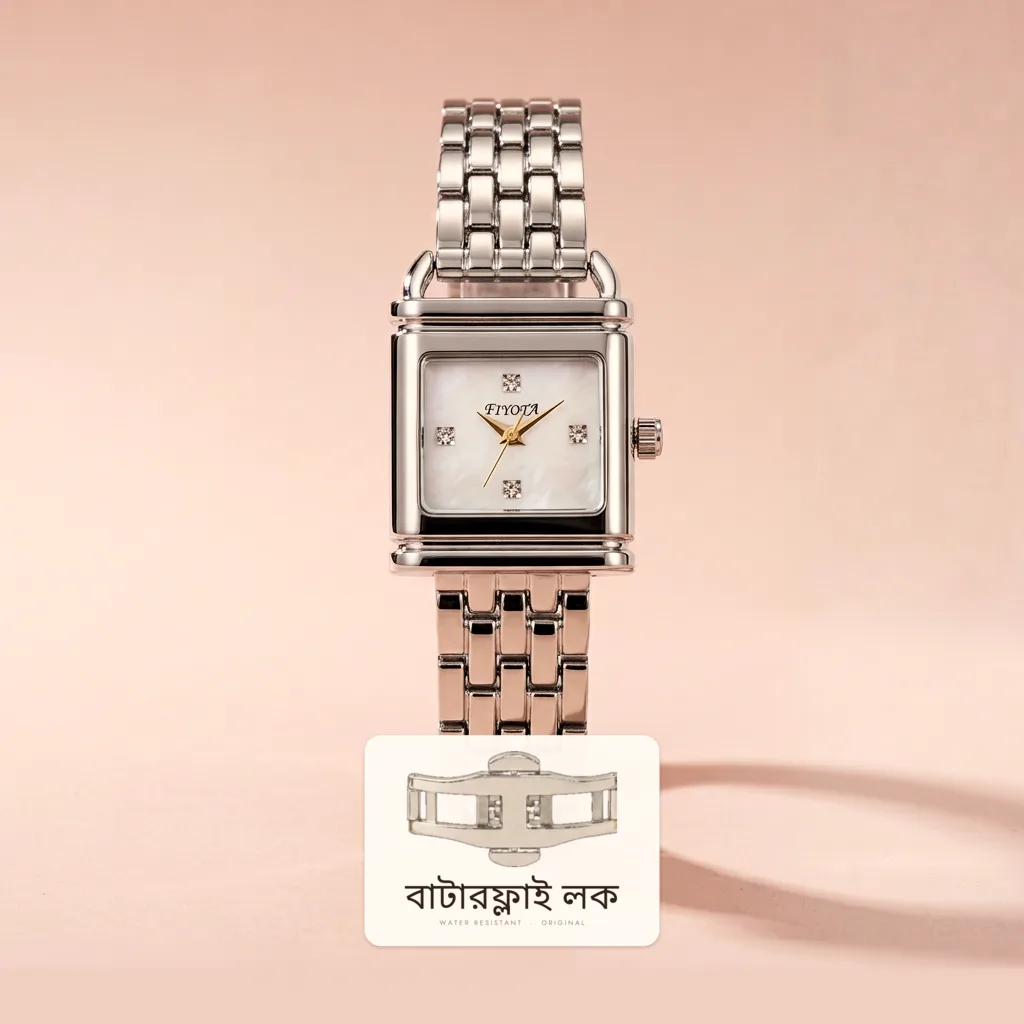
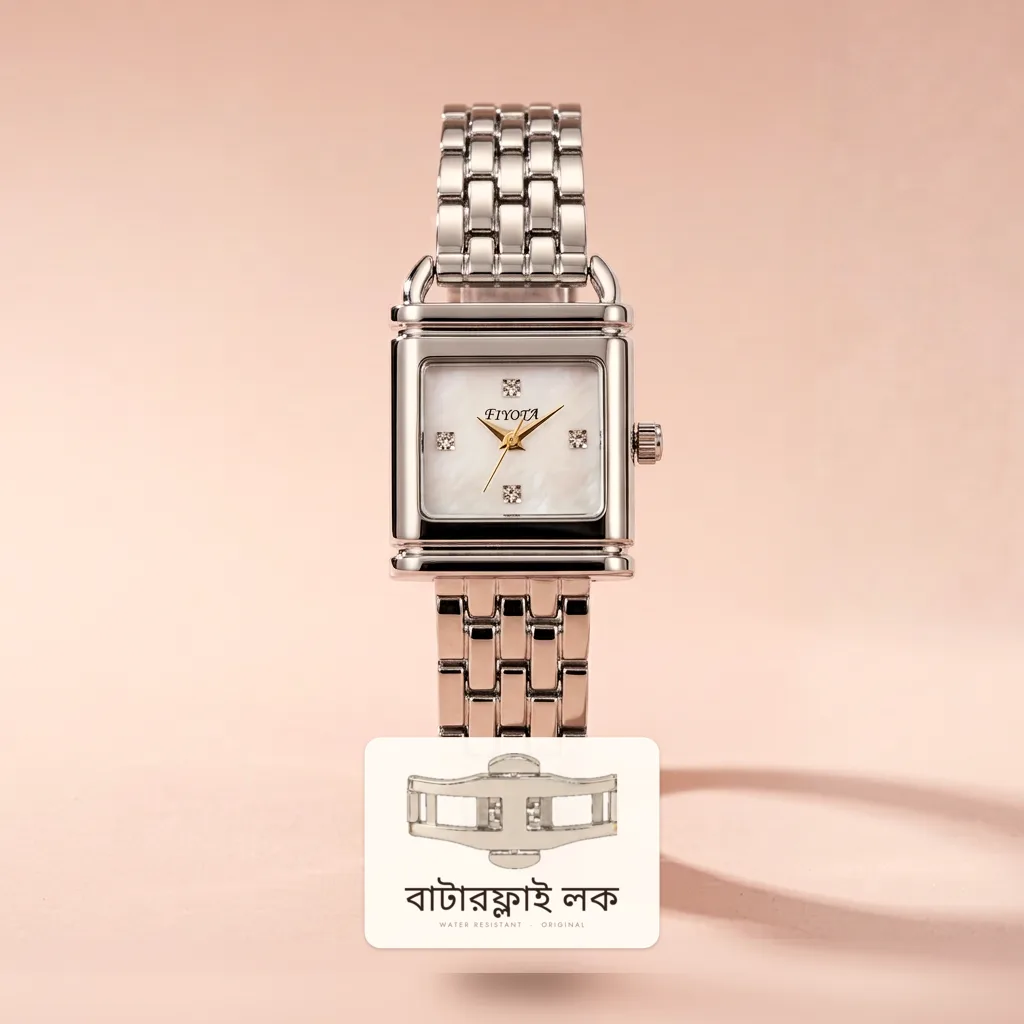
Gold FIYOTA square set: fixed room seam (append not composite), re-export mains, copy + download links

diff --git a/design/watch_shoot.py b/design/watch_shoot.py
@@ -357,40 +357,42 @@ def overlay_image(src: str, out: str, badge: str, width_ratio: float = 0.46,
 
 
 def make_room(src: str, out: str, shift: float = 0.09, feather: int = 40) -> str:
-    """Slide the subject up without changing the frame: crop `shift` off the top and splice the
-    same height back at the bottom using the photo's own edge colour, then feather the seam.
-
-    Gives the badge clean negative space on an otherwise full-frame hero shot.
+    """Slide the subject up without changing the frame: crop `shift` off the top and append a
+    blurred continuation of the backdrop underneath, so the badge gets clean space without a
+    flat colour band or a hard seam.
     """
     W, H = (int(x) for x in subprocess.run(
         ["convert", src, "-format", "%w %h", "info:"], capture_output=True, text=True
         ).stdout.split())
     top = max(1, int(H * shift))
     tmp = tempfile.mkdtemp(prefix="room-")
+
     cropped = os.path.join(tmp, "crop.png")
     run(["convert", src, "-crop", f"{W}x{H - top}+0+{top}", "+repage", cropped])
 
-    edge = subprocess.run(["convert", cropped, "-gravity", "south", "-crop", f"{W}x2+0+0",
-                           "+repage", "-resize", "1x1!", "-format", "%[pixel:p{0,0}]", "info:"],
-                          capture_output=True, text=True).stdout.strip()
+    # a heavily blurred slice of the bottom edge, stretched to the new height
+    ext = os.path.join(tmp, "ext.png")
+    band_src = max(top * 3, 48)
+    run(["convert", cropped, "-gravity", "south", "-crop", f"{W}x{band_src}+0+0", "+repage",
+         "-resize", f"{W}x{top}!", "-blur", "0x18", ext])
 
     spliced = os.path.join(tmp, "spliced.png")
-    run(["convert", cropped, "-background", edge, "-gravity", "south",
-         "-splice", f"0x{top}", spliced])
+    run(["convert", cropped, ext, "-background", "none", "-gravity", "north", "-append",
+         spliced])
 
-    # feather a narrow band around the seam so no straight line shows
-    band_h = min(feather * 2, top)
+    # feather across the seam so the join is invisible
+    band_h = min(int(feather * 3), top * 2)
+    y = max(0, H - top - band_h // 3)
     band = os.path.join(tmp, "band.png")
-    run(["convert", spliced, "-crop", f"{W}x{band_h}+0+{H - top - band_h // 2}", "+repage",
-         "-blur", "0x6", band])
+    run(["convert", spliced, "-crop", f"{W}x{band_h}+0+{y}", "+repage", "-blur", "0x14", band])
     masked = os.path.join(tmp, "band-masked.png")
-    run(["convert", band, "-alpha", "set",
-         "-channel", "A", "-evaluate", "multiply", "0.55", "+channel", masked])
-    Path(out).parent.mkdir(parents=True, exist_ok=True)
-    run(["convert", spliced, "(", masked, ")", "-geometry",
-         f"+0+{H - top - band_h // 2}", "-compose", "over", "-composite", "-strip", out])
-    return out
+    run(["convert", band, "-alpha", "set", "-channel", "A",
+         "-evaluate", "multiply", "0.70", "+channel", masked])
 
+    Path(out).parent.mkdir(parents=True, exist_ok=True)
+    run(["convert", spliced, "(", masked, ")", "-geometry", f"+0+{y}",
+         "-compose", "over", "-composite", "-strip", out])
+    return out
 
 
 GRADES = {

diff --git a/design/deliveries/fiyota-gold-square/copy.md b/design/deliveries/fiyota-gold-square/copy.md
@@ -1,0 +1,86 @@
+# FIYOTA Crystal Square — GOLD (মেয়েদের ঘড়ি) · প্রোডাক্ট কপি
+
+> ছবিতে ডায়ালে ব্র্যান্ড **FIYOTA** — নাম হিসেবে সেটাই রাখা হয়েছে।
+> ফিচার শুধু ভাইয়ার দেওয়া তথ্য থেকে: বাটারফ্লাই লক, ওয়াটার রেজিস্ট্যান্স, চেন কালার
+> গ্যারান্টি, ৭ দিন রিপ্লেসমেন্ট, ৬ মাস ওয়ারেন্টি। `[ ]` ঘরগুলো কনফার্ম করে ভরুন।
+
+---
+
+## ১. নাম (৩টি অপশন)
+
+1. **FIYOTA Crystal Square — Gold**
+2. **FIYOTA Golden Square**
+3. **FIYOTA Classic Gold (Women's)**
+
+## ২. এক লাইনের হুক
+
+> সোনালি চারকোনা কেস, চ্যাম্পেইন ডায়ালে চারটি ক্রিস্টাল — হাতে দিলেই দাওয়াতের মেজাজ।
+
+## ৩. শর্ট ডেসক্রিপশন
+
+গোল্ড-টোন রেক্ট্যাঙ্গুলার কেস, ভেতরে চ্যাম্পেইন-গোল্ড সানরে ডায়াল — ১২, ৩, ৬ আর ৯টার
+জায়গায় চারটি স্কয়ার ক্রিস্টাল মার্কার। সোনালি জুবিলি ব্রেসলেট বাটারফ্লাই লকে বন্ধ হয়,
+তাই কব্জিতে বসে পরিষ্কার থাকে। শাড়ি, কুর্তা, ফরমাল — সবের সাথেই মানায়।
+
+## ৪. ডিটেইল ডেসক্রিপশন
+
+**যা দেখছেন**
+
+কেসটা ছোট, কিন্তু ভাবটা রাজকীয়। চারকোনা ফ্রেমের চারপাশে ধাপে ধাপে পলিশ করা গোল্ড বেজেল —
+আলো পড়লে কেসের এজে সোনালি একটা সরু লাইন আঁকে। ডায়ালটা চ্যাম্পেইন গোল্ড, সূক্ষ্ম সানরে
+টেক্সচার — আলো ঘুরলে রঙ হালকা থেকে গাঢ় হয়। সময় বোঝার জন্য বাড়তি কিছু নেই: শুধু চারটি
+ক্রিস্টাল মার্কার আর গাঢ় সোনালি রঙের সরু হাত। ব্রেসলেট পাঁচ সারির জুবিলি লিংক, ছোট ছোট
+পলিশড টুকরো — কব্জিতে নরমভাবে বসে, আলোতে ঝিকমিক করে।
+
+**যা যাচাই করা যায়**
+
+- **বাটারফ্লাই লক** — ব্রেসলেট দুই পাশে ভাঁজ হয়ে খোলে, চাপ দিলেই আটকে যায়; চুল বা কাপড়ে আটকায় না
+- **ওয়াটার রেজিস্ট্যান্ট** — হাত ধোয়া, বৃষ্টি, ঘামে সমস্যা হয় না (সাঁতার/ডুবের জন্য নয়)
+- **চেন কালার গ্যারান্টি** — সোনালি রঙ নিয়ে চিন্তা নেই; কালার নিয়ে সমস্যা হলে সেটা আমাদের দায়িত্বে
+- **৭ দিনের রিপ্লেসমেন্ট** — হাতে পাওয়ার ৭ দিনের মধ্যে সমস্যা থাকলে রিপ্লেসমেন্ট
+- **৬ মাসের ওয়ারেন্টি** — মুভমেন্ট ও ফিনিশে
+
+**স্পেকস**
+
+| | |
+|---|---|
+| ব্র্যান্ড | FIYOTA |
+| কেস | রেক্ট্যাঙ্গুলার গোল্ড-টোন পলিশড স্টিল, স্টেপড বেজেল · `[মাপ]` |
+| ডায়াল | চ্যাম্পেইন-গোল্ড সানরে, ৪টি স্কয়ার ক্রিস্টাল মার্কার (১২/৩/৬/৯) |
+| হাত | গাঢ় গোল্ড-টোন আওয়ার ও মিনিট হাত |
+| গ্লাস | `[মিনারেল]` |
+| মুভমেন্ট | `[কোয়ার্টজ]` |
+| ব্রেসলেট | ৫-রো গোল্ড জুবিলি, পলিশড |
+| ক্ল্যাস্প | বাটারফ্লাই লক |
+| ওয়াটার | ওয়াটার রেজিস্ট্যান্ট |
+| গ্যারান্টি | চেন কালার গ্যারান্টি · ৭ দিন রিপ্লেসমেন্ট · ৬ মাস ওয়ারেন্টি |
+| বক্সে | ঘড়ি + `[বক্স / ওয়ারেন্টি কার্ড]` |
+
+**কার জন্য** — যে মেয়েটি সোনালি গয়না ভালোবাসে কিন্তু ভারী গয়না পরতে চায় না — হাতে
+একটা পরিপাটি সোনালি জিনিস, প্রতিদিন একই ঘড়ি পরে সব সামলে ফেলার জন্য।
+
+## ৫. কীওয়ার্ড (সার্চ / অ্যাড)
+
+`gold watch for women`, `women's watch bangladesh`, `square gold watch`, `crystal watch women`,
+`gold chain watch`, `butterfly lock watch`, `gift for her`, `water resistant watch`,
+`wedding gift watch`, `FIYOTA watch gold`
+
+## ৬. অল্ট টেক্সট
+
+- **main:** "FIYOTA মেয়েদের সোনালি স্কয়ার ঘড়ি, চ্যাম্পেইন ডায়ালে চারটি ক্রিস্টাল, বাটারফ্লাই লক"
+- **wrist:** "গোলাপি সিল্কের হাতার উপরে মেয়ের কব্জিতে FIYOTA সোনালি ব্রেসলেট ঘড়ি"
+- **detail:** "FIYOTA সোনালি ঘড়ির ম্যাক্রো — সানরে ডায়াল, ক্রিস্টাল মার্কার, ক্রাউন ও জুবিলি ব্রেসলেট"
+
+---
+
+## ৭. ফাইল (`design/deliveries/fiyota-gold-square/`)
+
+| ছবি | ফাইল | সাইজ | JPG | WebP |
+|---|---|---|---|---|
+| Main (১:১, বাটারফ্লাই লক কার্ডসহ) | `fiyota-gold-square-main` | ১০২৪×১০২৪ | ৮৪KB | ২৯KB |
+| Wrist (১:১) | `fiyota-gold-square-wrist` | ১০২৪×১০২৪ | ১২৭KB | ৫৫KB |
+| Detail (১:১) | `fiyota-gold-square-detail` | ১০২৪×১০২৪ | ২৬৩KB | ১৩৪KB |
+
+- সব ছবি **১:১**, sRGB, metadata stripped · গ্রেড `miqa-warm`
+- কাঁচে ফোন/ক্যামেরার রিফ্লেকশন নেই
+- বাংলা “বাটারফ্লাই লক” কোডে বসানো (`design/bn_text.py`) — যুক্তাক্ষর ঠিক

diff --git a/design/deliveries/fiyota-gold-square/README.md b/design/deliveries/fiyota-gold-square/README.md
@@ -1,0 +1,45 @@
+# FIYOTA Crystal Square — GOLD · মেয়েদের ঘড়ি
+
+৩টি ছবি, সব **১:১ (১০২৪×১০২৪)**, গ্রেড `miqa-warm`, কাঁচে কোনো ফোন-রিফ্লেকশন নেই।
+হিরোর নিচে কোডে বসানো বাংলা **বাটারফ্লাই লক** কার্ড। JPG + WebP দুই ফরম্যাটে।
+
+## ডাউনলোড লিংক
+
+### Main hero (১:১, বাটারফ্লাই লক কার্ডসহ)
+- নাম: `fiyota-gold-square-main.jpg` · সাইজ: 84 KB
+- ফাইল পেজ (ডাউনলোড আইকন ↘): https://github.com/abdurrahman58nayem/Watch/blob/arena/c068212c-watch/design/deliveries/fiyota-gold-square/fiyota-gold-square-main.jpg
+- ডাইরেক্ট ডাউনলোড: https://raw.githubusercontent.com/abdurrahman58nayem/Watch/arena/c068212c-watch/design/deliveries/fiyota-gold-square/fiyota-gold-square-main.jpg
+
+### Main hero — WebP
+- নাম: `fiyota-gold-square-main.webp` · সাইজ: 29 KB
+- ফাইল পেজ (ডাউনলোড আইকন ↘): https://github.com/abdurrahman58nayem/Watch/blob/arena/c068212c-watch/design/deliveries/fiyota-gold-square/fiyota-gold-square-main.webp
+- ডাইরেক্ট ডাউনলোড: https://raw.githubusercontent.com/abdurrahman58nayem/Watch/arena/c068212c-watch/design/deliveries/fiyota-gold-square/fiyota-gold-square-main.webp
+
+### Wrist / হাতের ছবি
+- নাম: `fiyota-gold-square-wrist.jpg` · সাইজ: 127 KB
+- ফাইল পেজ (ডাউনলোড আইকন ↘): https://github.com/abdurrahman58nayem/Watch/blob/arena/c068212c-watch/design/deliveries/fiyota-gold-square/fiyota-gold-square-wrist.jpg
+- ডাইরেক্ট ডাউনলোড: https://raw.githubusercontent.com/abdurrahman58nayem/Watch/arena/c068212c-watch/design/deliveries/fiyota-gold-square/fiyota-gold-square-wrist.jpg
+
+### Wrist — WebP
+- নাম: `fiyota-gold-square-wrist.webp` · সাইজ: 55 KB
+- ফাইল পেজ (ডাউনলোড আইকন ↘): https://github.com/abdurrahman58nayem/Watch/blob/arena/c068212c-watch/design/deliveries/fiyota-gold-square/fiyota-gold-square-wrist.webp
+- ডাইরেক্ট ডাউনলোড: https://raw.githubusercontent.com/abdurrahman58nayem/Watch/arena/c068212c-watch/design/deliveries/fiyota-gold-square/fiyota-gold-square-wrist.webp
+
+### Detail / ম্যাক্রো
+- নাম: `fiyota-gold-square-detail.jpg` · সাইজ: 263 KB
+- ফাইল পেজ (ডাউনলোড আইকন ↘): https://github.com/abdurrahman58nayem/Watch/blob/arena/c068212c-watch/design/deliveries/fiyota-gold-square/fiyota-gold-square-detail.jpg
+- ডাইরেক্ট ডাউনলোড: https://raw.githubusercontent.com/abdurrahman58nayem/Watch/arena/c068212c-watch/design/deliveries/fiyota-gold-square/fiyota-gold-square-detail.jpg
+
+### Detail — WebP
+- নাম: `fiyota-gold-square-detail.webp` · সাইজ: 134 KB
+- ফাইল পেজ (ডাউনলোড আইকন ↘): https://github.com/abdurrahman58nayem/Watch/blob/arena/c068212c-watch/design/deliveries/fiyota-gold-square/fiyota-gold-square-detail.webp
+- ডাইরেক্ট ডাউনলোড: https://raw.githubusercontent.com/abdurrahman58nayem/Watch/arena/c068212c-watch/design/deliveries/fiyota-gold-square/fiyota-gold-square-detail.webp
+
+### প্রোডাক্ট কপি (বাংলা)
+- নাম: `copy.md` · সাইজ: —
+- ফাইল পেজ (ডাউনলোড আইকন ↘): https://github.com/abdurrahman58nayem/Watch/blob/arena/c068212c-watch/design/deliveries/fiyota-gold-square/copy.md
+- ডাইরেক্ট ডাউনলোড: https://raw.githubusercontent.com/abdurrahman58nayem/Watch/arena/c068212c-watch/design/deliveries/fiyota-gold-square/copy.md
+
+## কীভাবে ডাউনলোড করবেন
+প্রথম লিংক খুলুন → ফাইল পেজ আসবে → উপরে ডানে **ডাউনলোড (↓)** আইকনে ক্লিক → ফাইল সেভ হবে।
+অথবা দ্বিতীয় লিংক (ডাইরেক্ট) ব্রাউজারে খুললেই ছবি/টেক্সট চলে আসবে।
